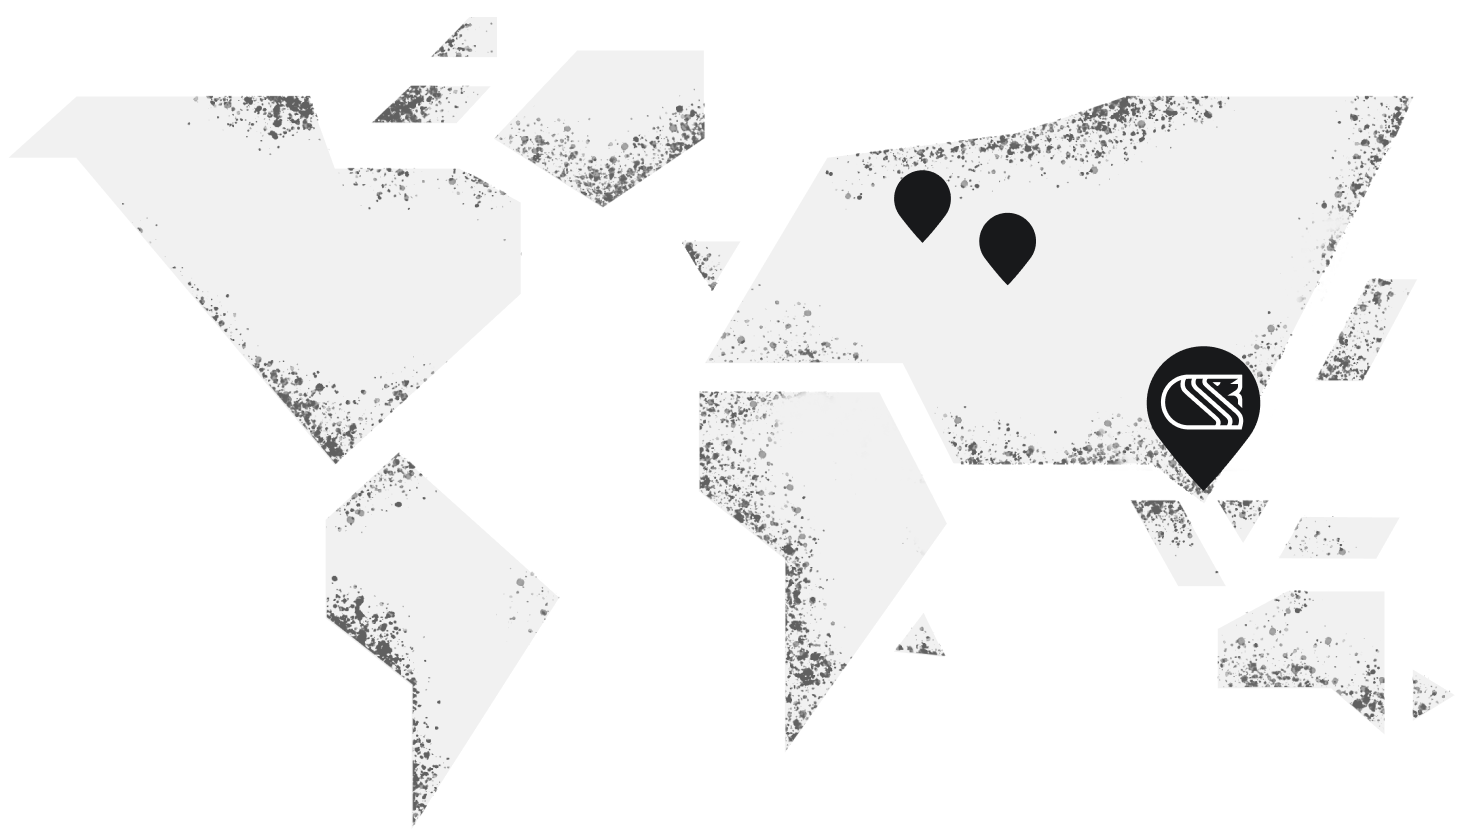
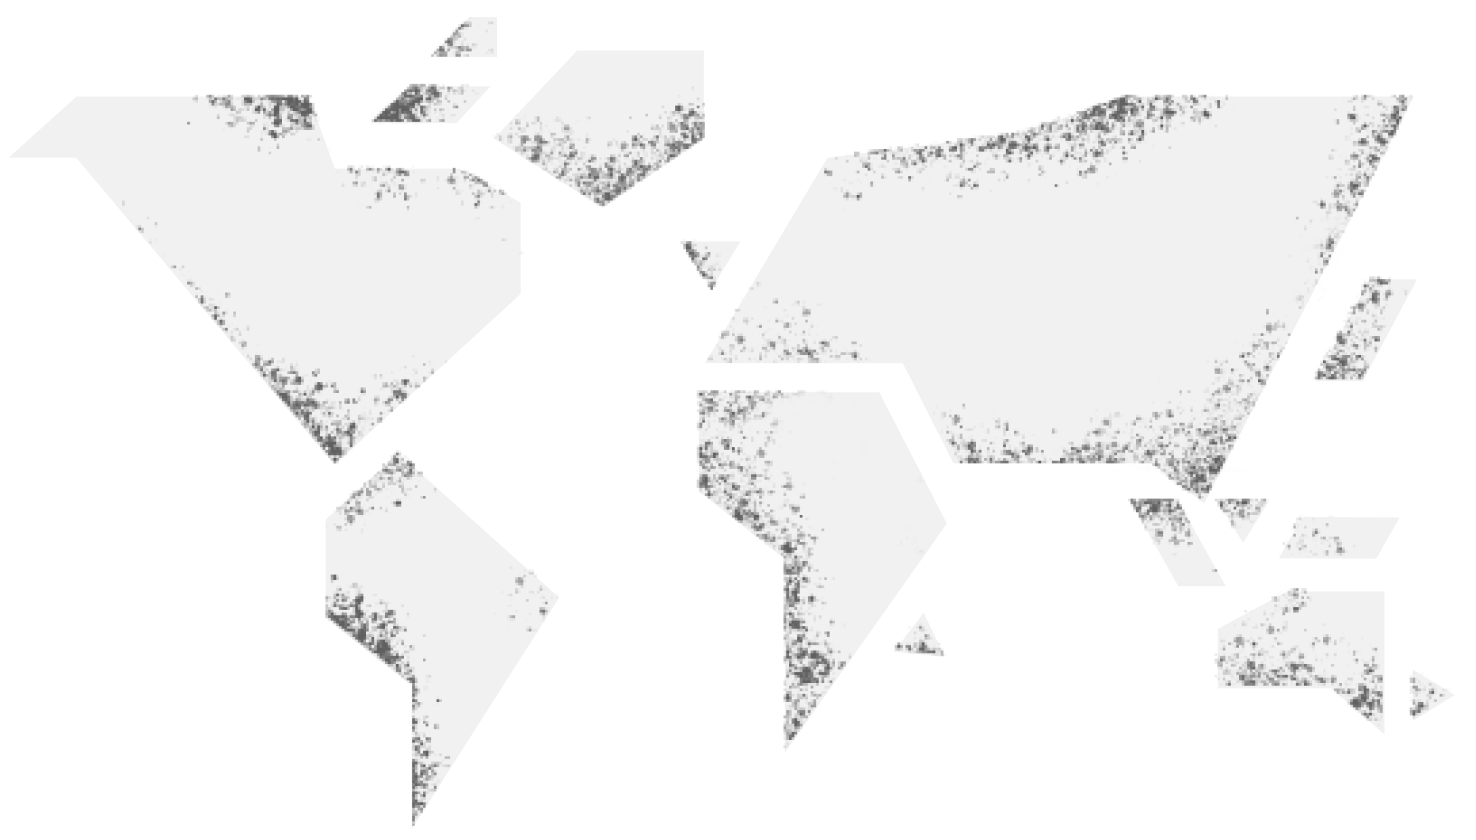
feat: COM-1625 Увеличивает пины на карте при наведении на адреса

diff --git a/components/Footer/DoubleBottom/Addresses/Addresses.jsx b/components/Footer/DoubleBottom/Addresses/Addresses.jsx
@@ -10,6 +10,7 @@ import Text from '../../../ui-kit/core-design/Text'
 import translate from '../../../../utils/translate-wrapper'
 import { DeviceConsumer } from '../../../../utils/deviceProvider'
 import Link from '../../../ui-kit/core-design/Link'
+import ClickOutside from '../../../ClickOutside'
 
 const addressesIds = ['singapore', 'russia', 'russia_2', 'estonia']
 // TODO это может поменяться в будущем
@@ -20,7 +21,7 @@ const timezoneOffsetsByAddressId = {
   estonia: 2,
 }
 
-const Addresses = ({ className, isTablet, isMobile, t, lng }) => {
+const Addresses = ({ className, isTablet, isMobile, t, lng, setHoveredAddress }) => {
   const [time, setTime] = useState(() => moment())
 
   useEffect(() => {
@@ -31,55 +32,82 @@ const Addresses = ({ className, isTablet, isMobile, t, lng }) => {
     return () => clearTimeout(timeout)
   })
 
+  const handleResetHoveredAddress = () => setHoveredAddress(null)
+
+  const handleMouseOver = address => event => {
+    if (isMobile) {
+      event.preventDefault()
+      return
+    }
+
+    setHoveredAddress(address)
+  }
+
+  const handleMouseOut = event => {
+    if (isMobile) {
+      event.preventDefault()
+      return
+    }
+
+    setHoveredAddress(null)
+  }
+
   const textSize = isTablet || isMobile ? 'm' : 's'
   return (
-    <div className={className}>
-      {addressesIds.map(id => (
-        <div key={id} className="address-item">
+    <ClickOutside onOutsideClick={handleResetHoveredAddress}>
+      <div className={className}>
+        {addressesIds.map(id => (
+          <div 
+            className={`address-item address_${id}`}
+            key={id}
+            onMouseOver={handleMouseOver(id)}
+            onMouseLeave={handleMouseOut}
+          >
 
-          {id !== 'russia_2' && (
-            <Heading
-              as="p"
-              className="title"
-              type="regular"
-              size="s"
-              dangerouslySetInnerHTML={{ __html: t(`common:footer.addresses.${id}.title`) }}
-            />
-          )}
-          
-          <Text
-            className="address"
-            dangerouslySetInnerHTML={{ __html: t(`common:footer.addresses.${id}.address`) }}
-            size={textSize}
-            type="regular"
-          />
-          
-          {id !== 'estonia' && (
-            <Link
-              className="phone"
-              dangerouslySetInnerHTML={{ __html: t(`common:footer.addresses.${id}.phone`) }}
-              href={`tel:${t(`common:footer.addresses.${id}.phone`)}`}
-              size={textSize}
-              type="list"
-            />
-          )}
-
-          {id === 'singapore' && (
+            {id !== 'russia_2' && (
+              <Heading
+                as="p"
+                className="title"
+                type="regular"
+                size="s"
+                dangerouslySetInnerHTML={{ __html: t(`common:footer.addresses.${id}.title`) }}
+              />
+            )}
+            
             <Text
-              className="status"
-              dangerouslySetInnerHTML={{ __html: t(`common:footer.addresses.${id}.status`) }}
-              type="regular"
+              className="address"
+              dangerouslySetInnerHTML={{ __html: t(`common:footer.addresses.${id}.address`) }}
               size={textSize}
-              Head Office
+              type="regular"
             />
-          )}
+            
+            {id !== 'estonia' && (
+              <Link
+                className="phone"
+                dangerouslySetInnerHTML={{ __html: t(`common:footer.addresses.${id}.phone`) }}
+                href={`tel:${t(`common:footer.addresses.${id}.phone`)}`}
+                size={textSize}
+                type="list"
+              />
+            )}
 
-          <Text className="time" type="regular" size={textSize}>
-            {time.utcOffset(timezoneOffsetsByAddressId[id]).format(`${lng==='ru' ? 'HH:mm': 'hh:mm A' }`)}
-          </Text>
-        </div>
-      ))}
-    </div>
+            {id === 'singapore' && (
+              <Text
+                className="status"
+                dangerouslySetInnerHTML={{ __html: t(`common:footer.addresses.${id}.status`) }}
+                type="regular"
+                size={textSize}
+                Head Office
+              />
+            )}
+
+            <Text className="time" type="regular" size={textSize}>
+              {time.utcOffset(timezoneOffsetsByAddressId[id]).format(`${lng==='ru' ? 'HH:mm': 'hh:mm A' }`)}
+            </Text>
+          </div>
+        ))}
+      </div>
+    </ClickOutside>
   )
 }
 

diff --git a/components/Footer/DoubleBottom/DoubleBottom.styles.js b/components/Footer/DoubleBottom/DoubleBottom.styles.js
@@ -14,10 +14,51 @@ const base = ({ breakpoints: { desktop, tablet, mobile }}) => css`
     background-color: white;
   }
 
+  .map-wrapper {
+    margin-left: auto;
+  }
+
+  .map {
+    position: relative;
+  }
+
+  .pin {
+    position: absolute;
+    display: block;
+    width: 20px;
+    height: 26px;
+    background-image: url(${require('../../../static/icons/footer/pin.svg').default});
+    background-repeat: no-repeat;
+    background-color: transparent;
+    background-size: 100%;
+    background-position: 100%;
+
+    &_russia {
+      top: 100px;
+      right: 191px
+    }
+
+    &_estonia {
+      top: 86px;
+      right: 219px;
+    }
+
+    &_singapore {
+      top: 147px;
+      right: 117px;
+      width: 38px;
+      height: 48px;
+      background-image: url(${require('../../../static/icons/footer/pin_singapore.svg').default});
+    }
+
+    &_hovered {
+      transform: scale(1.2);
+    }
+
+  }
+
   ${desktop.all} {
     .picture {
-      margin-top: -8px;
-      margin-left: auto;
       width: 492px;
       height: 280px;
     }
@@ -27,24 +68,60 @@ const base = ({ breakpoints: { desktop, tablet, mobile }}) => css`
     & {
       padding-right: ${calcRem(42)};
     }
+
+    .pin_singapore {
+      top: 41%;
+      right: 14.5%;
+    }
+
+    .pin_estonia {
+      top: 21%;
+      right: 36%;
+    }
+
+    .pin_russia {
+      top: 26%;
+      right: 30%;
+    }
   }
 
   ${desktop.m} {
     & {
       padding-right: ${calcRem(48)};
     }
+
+    .pin_singapore {
+      top: 42%;
+      right: 15%;
+    }
+
+    .pin_estonia {
+      top: 20%;
+      right: 36%;
+    }
+
+    .pin_russia {
+      top: 25%;
+      right: 30%;
+    }
   }
 
   ${desktop.s} {
-    & {
-      padding-right: ${calcRem(52)};
+    .pin_singapore {
+      top: 41%;
+      right: 15%;
     }
 
-    .picture {
-      position: absolute;
-      right: 32px;
-      z-index: -1;
+    .pin_estonia {
+      top: 16%;
+      right: 36%;
     }
+
+    .pin_russia {
+      top: 23%;
+      right: 31%;
+    }
+    
   }
 
   ${tablet.all} {
@@ -57,12 +134,23 @@ const base = ({ breakpoints: { desktop, tablet, mobile }}) => css`
     }
 
     .picture {
-      position: absolute;
-      right: ${calcRem(11)};
-      margin-top: ${calcRem(-5)};
       width: ${calcRem(386)};
       height: ${calcRem(225)};
-      z-index: -1;
+    }
+
+    .pin_singapore {
+      top: ${calcRem(84)};
+      right: ${calcRem(54)};
+    }
+
+    .pin_estonia {
+      top: ${calcRem(32)};
+      right: ${calcRem(135)};
+    }
+
+    .pin_russia {
+      top: ${calcRem(48)};
+      right: ${calcRem(112)};
     }
   }
 
@@ -79,6 +167,29 @@ const base = ({ breakpoints: { desktop, tablet, mobile }}) => css`
     .picture {
       margin-top: ${calcRem(22)};
       width: ${calcRem(328)};
+    }
+
+    .pin {
+      max-width: 15px;
+      max-height: 20px;
+      background-position: 50%;
+
+      &_singapore {
+        top: ${calcRem(73)};
+        right: ${calcRem(48)};
+        max-width: 29px;
+        max-height: 37px;
+      }
+
+      &_estonia {
+        top: ${calcRem(37)};
+        right: ${calcRem(119)};
+      }
+
+      &_russia {
+        top: ${calcRem(44)};
+        right: ${calcRem(99)};
+      }
     }
   }
 `

diff --git a/components/Footer/DoubleBottom/DoubleBottom.jsx b/components/Footer/DoubleBottom/DoubleBottom.jsx
@@ -1,5 +1,6 @@
-import React from 'react'
+import React, { useState } from 'react'
 import { string, func } from 'prop-types'
+import cn from 'classnames'
 import styled from '@emotion/styled'
 import styles from './DoubleBottom.styles'
 
@@ -11,17 +12,44 @@ import translate from '../../../utils/translate-wrapper'
 import continents from '../../../static/images/continents.png?responsive'
 import continents_webp from '../../../static/images/continents.png?responsive_and_webp'
 
-const DoubleBottom = ({ className, t }) => (
-  <div className={className}>
-    <Addresses />
-    <Picture
-      className="picture"
-      images={{ png: continents, webp: continents_webp }}
-      fallback={continents}
-      alt={t('common:footer.imageAlt.continents')}
-    />
-  </div>
-)
+const pins = [
+  {
+    id: 'singapore'
+  },
+  {
+    id: 'russia'
+  },
+  {
+    id: 'estonia'
+  }
+]
+
+const DoubleBottom = ({ className, t}) => {
+  const [hoveredAddress, setHoveredAddress] = useState(null)
+
+  return (
+    <div className={className}>
+      <Addresses setHoveredAddress={setHoveredAddress}/>
+        <div className={'map-wrapper'}>
+          <div className={'map'}>
+            <Picture
+              className="picture"
+              images={{ png: continents, webp: continents_webp }}
+              fallback={continents}
+              alt={t('common:footer.imageAlt.continents')}
+            />
+
+            {pins.map(({id}) => <span
+                                  key={id}
+                                  className={cn(`pin pin_${id}`, {
+                                    'pin_hovered': id === hoveredAddress,
+                                  })}
+                                />)}
+          </div>
+        </div>
+    </div>
+  )
+}
 
 DoubleBottom.propTypes = {
   className: string,

diff --git a/components/Footer/DoubleBottom/Addresses/Addresses.styles.js b/components/Footer/DoubleBottom/Addresses/Addresses.styles.js
@@ -10,6 +10,14 @@ const base = ({ breakpoints: { desktop, tablet, mobile }, colors, lng }) => css`
     color: ${colors.secondary.darken100};
   }
 
+  .address-item {
+    cursor: pointer;
+
+    &:hover .pin {
+      transform: scale(1.5);
+    }
+  }
+
   .address,
   .phone {
     color: ${colors.secondary.darken100};
